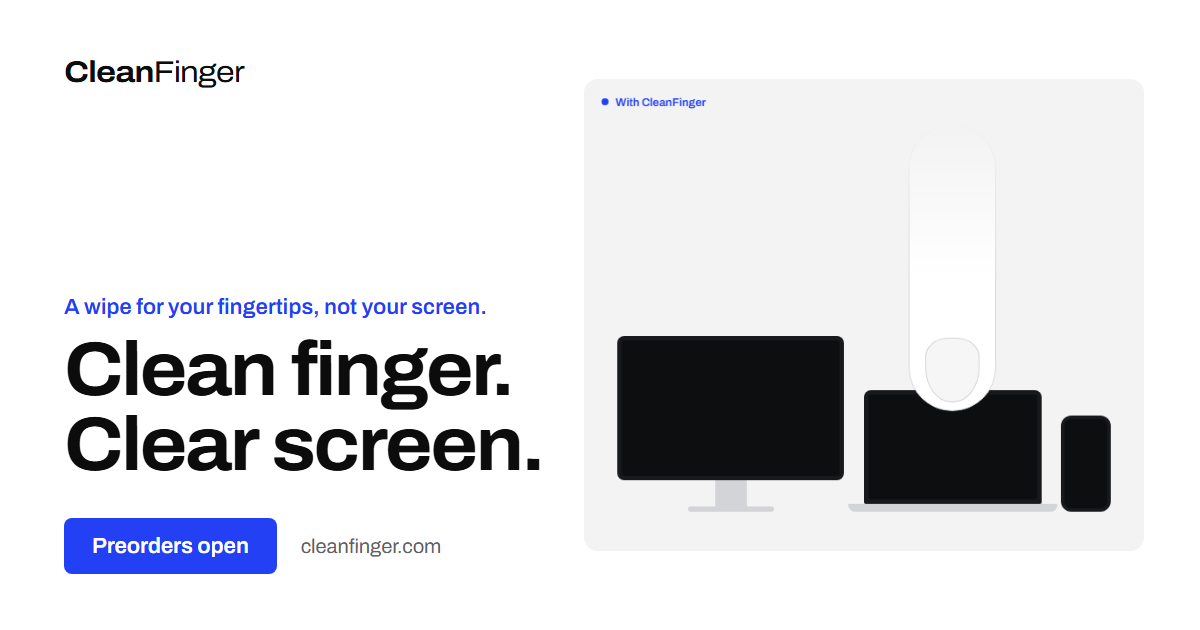
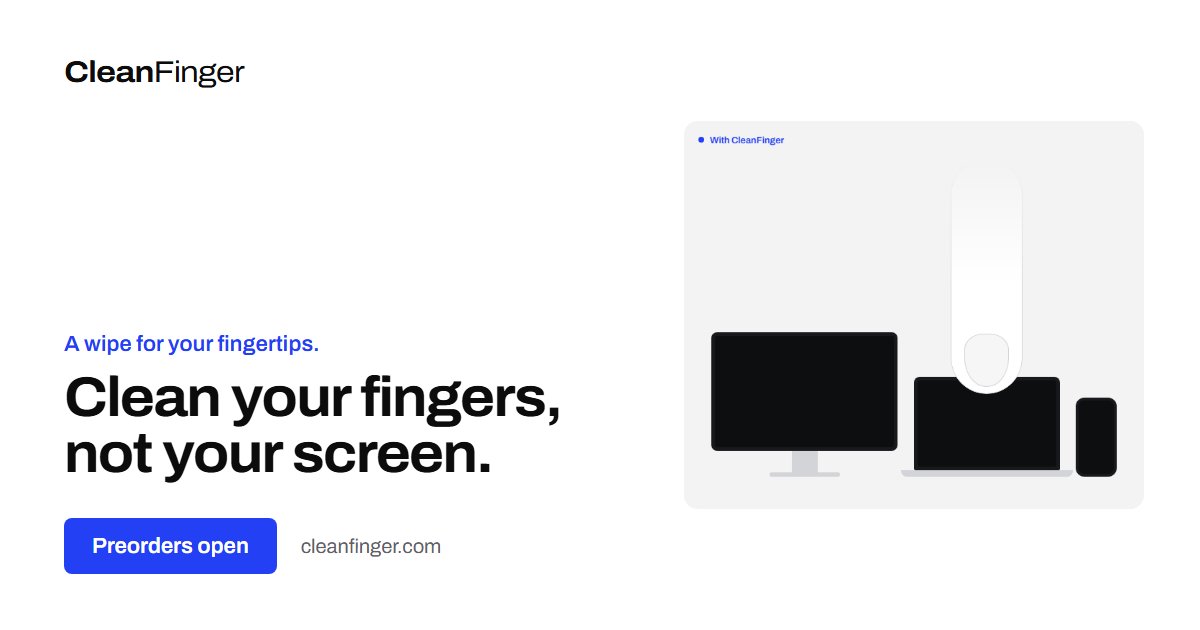
Actionable headline: "Clean your fingers, not your screen."
- Headline is now an instruction; eyebrow "A wipe for your fingertips."
- Subhead: "A quick wipe takes the grease off your fingertips, so it never ends up on ..."
- Headline is a single string that wraps (balanced) at every size
- Updated share image; reviewed with Codex

diff --git a/src/data/product.ts b/src/data/product.ts
@@ -2,10 +2,10 @@
 
 export const product = {
 	name: "CleanFinger",
-	kind: "A wipe for your fingertips, not your screen.",
-	headline: ["Clean finger.", "Clear screen."],
+	kind: "A wipe for your fingertips.",
+	headline: "Clean your fingers, not your screen.",
 	description:
-		"Wipe the grease off your fingertips in seconds, so it never ends up on your keyboard, trackpad, monitor or phone.",
+		"A quick wipe takes the grease off your fingertips, so it never ends up on your keyboard, trackpad, monitor or phone.",
 
 	// Preorder price, shown in the buy box and in search results (e.g. 19). null hides the row.
 	price: null as number | null,
